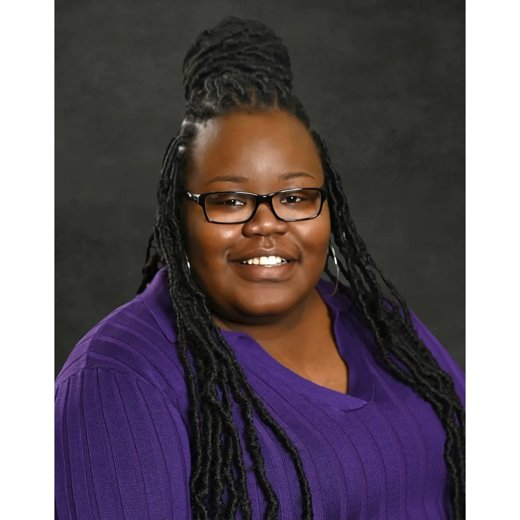
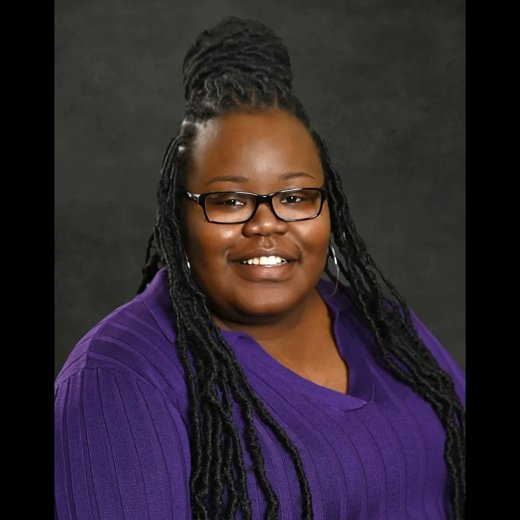
Update Morgan TechFest 2026 site

Changed region(s): [[0.8923, 0.0, 1.0, 1.0], [0.0, 0.0, 0.1231, 1.0]]

diff --git a/public/about.html b/public/about.html
@@ -39,7 +39,8 @@
     .team-name { margin-top: 14px; font-family: 'Urbanist', sans-serif; font-weight: 700; font-size: 15px; color: var(--dark); }
     .team-role { display: block; margin-top: 2px; font-family: 'JetBrains Mono', ui-monospace, monospace; font-size: 10px; letter-spacing: 0.12em; text-transform: uppercase; color: rgba(22, 7, 43, 0.5); }
     .pp-head { margin-top: 48px; font-family: 'Bebas Neue', sans-serif; font-size: 30px; line-height: 1; color: var(--dark); }
-    .pp-grid { margin-top: 20px; grid-template-columns: repeat(2, 1fr); max-width: 380px; }
+    .pp-grid { margin-top: 20px; grid-template-columns: repeat(3, 1fr); max-width: 560px; }
+    @media (max-width: 520px) { .pp-grid { grid-template-columns: repeat(2, 1fr); } }
   </style>
 </head>
 <body>
@@ -182,6 +183,11 @@
           <div class="team-avatar"><img src="/team/femi-mebude.jpg" alt="Femi Mebude" loading="lazy" decoding="async" /></div>
           <figcaption class="team-name">Femi Mebude</figcaption>
           <span class="team-role">Director 2</span>
+        </figure>
+        <figure class="team-member">
+          <div class="team-avatar"><img src="/team/david-williams.jpg" alt="Oluwaseyifunmi (David) Williams" loading="lazy" decoding="async" /></div>
+          <figcaption class="team-name">Oluwaseyifunmi (David) Williams</figcaption>
+          <span class="team-role">Director 3</span>
         </figure>
       </div>
 

diff --git a/public/innovation-expo.html b/public/innovation-expo.html
@@ -94,7 +94,7 @@
       <p class="eyebrow">Future Flux &middot; Competition 02</p>
       <h1>Innovation <span>Expo</span></h1>
       <p class="subtitle">A Research &amp; Project Showcase: compete for awards across two categories, spanning all domains.</p>
-      <a class="reg-cta" href="https://form.jotform.com/261985240149159" target="_blank" rel="noopener noreferrer">Register for the Innovation Expo &rarr;</a>
+      <a class="reg-cta" href="https://form.jotform.com/261985240149159" target="_blank" rel="noopener noreferrer">Submit your research &rarr;</a>
     </div>
   </div>
 
@@ -155,7 +155,7 @@
     <div class="final-cta animate-in delay-3">
       <h3>Ready to Showcase?</h3>
       <p>Bring your research or project and present it to industry judges.</p>
-      <a class="reg-cta" href="https://form.jotform.com/261985240149159" target="_blank" rel="noopener noreferrer">Register for the Innovation Expo &rarr;</a>
+      <a class="reg-cta" href="https://form.jotform.com/261985240149159" target="_blank" rel="noopener noreferrer">Submit your research &rarr;</a>
     </div>
   </div>
 

diff --git a/public/tech-case.html b/public/tech-case.html
@@ -94,7 +94,7 @@
       <p class="eyebrow">Future Flux &middot; Competition 01</p>
       <h1>Tech Case <span>Competition</span></h1>
       <p class="subtitle">Student teams solve real-world problems with innovative, technology-driven solutions across six tracks.</p>
-      <a class="reg-cta" href="https://form.jotform.com/261985331194160" target="_blank" rel="noopener noreferrer">Register for the Tech Case &rarr;</a>
+      <a class="reg-cta" href="https://form.jotform.com/261985331194160" target="_blank" rel="noopener noreferrer">Submit your solution &rarr;</a>
     </div>
   </div>
 
@@ -162,7 +162,7 @@
     <div class="final-cta animate-in delay-3">
       <h3>Ready to Compete?</h3>
       <p>Build your team, pick your track, and submit before event day.</p>
-      <a class="reg-cta" href="https://form.jotform.com/261985331194160" target="_blank" rel="noopener noreferrer">Register for the Tech Case &rarr;</a>
+      <a class="reg-cta" href="https://form.jotform.com/261985331194160" target="_blank" rel="noopener noreferrer">Submit your solution &rarr;</a>
     </div>
   </div>
 